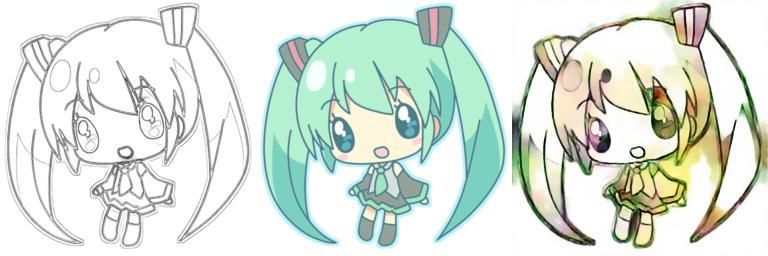
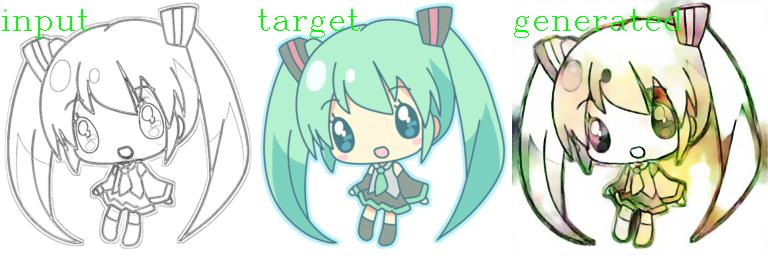
result image

diff --git a/Network.py b/Network.py
@@ -5,6 +5,7 @@ from tqdm import tqdm
 import numpy as np
 import os
 from PIL import Image
+import cv2
 
 class Generator(nn.Module):
     def __init__(self, dim):
@@ -218,7 +219,6 @@ class Model:
         os.makedirs(cfg.test_result_folder, exist_ok=True)
         for images, _ in loader:
             with torch.no_grad():
-                images = images.cuda()
                 if image_roi == 'LEFT':
                     source_images = images[:, :, :, :cfg.input_size]
                     target_images = images[:, :, :, cfg.input_size:]
@@ -229,20 +229,39 @@ class Model:
                     source_images = images
                     target_images = None
 
-                ims = self.G(source_images).to('cpu').detach().numpy().copy()
-                source_images = source_images.to('cpu')
+                generated_images = self.G(source_images.cuda()).to('cpu').detach().numpy().copy()
+                generated_images = (generated_images + 1) * 0.5
+                generated_images = np.transpose(generated_images, (0, 2, 3, 1))
+                generated_images = (generated_images * 255).astype(np.uint8)
+
+                source_images = source_images.numpy()
+                source_images = (source_images + 1) * 0.5
+                source_images = np.transpose(source_images, (0, 2, 3, 1))
+                source_images = (source_images * 255).astype(np.uint8)
+
                 if target_images is not None:
-                    target_images = target_images.to('cpu')
-                    ims = np.concatenate([source_images, target_images, ims], axis=3)
+                    target_images = target_images.numpy()
+                    target_images = (target_images + 1) * 0.5
+                    target_images = np.transpose(target_images, (0, 2, 3, 1))
+                    target_images = (target_images * 255).astype(np.uint8)
                 else:
-                    ims = np.concatenate([source_images, ims], axis=3)
-                ims = (ims + 1) * 0.5
-                ims = np.transpose(ims, (0, 2, 3, 1))
-                ims = (ims * 255).astype(np.uint8)
-                for im in ims:
+                    target_images = [None] * source_images.shape[0]
+
+                for src_img, tar_img, gen_img in zip(source_images, target_images, generated_images):
                     idx += 1
-                    image = Image.fromarray(im)
-                    image.save(os.path.join(cfg.test_result_folder, str(idx) + '.jpg'))
+                    src_img = np.ascontiguousarray(src_img, dtype=np.uint8)
+                    src_img = cv2.putText(src_img, 'input', (0, 30), cv2.FONT_HERSHEY_COMPLEX, 1, (0, 255, 0), 1)
+                    if tar_img is not None:
+                        tar_img = np.ascontiguousarray(tar_img, dtype=np.uint8)
+                        tar_img = cv2.putText(tar_img, 'target', (0, 30), cv2.FONT_HERSHEY_COMPLEX, 1, (0, 255, 0), 1)
+                    gen_img = np.ascontiguousarray(gen_img, dtype=np.uint8)
+                    gen_img = cv2.putText(gen_img, 'generated', (0, 30), cv2.FONT_HERSHEY_COMPLEX, 1, (0, 255, 0), 1)
+                    if tar_img is not None:
+                        result_img = np.concatenate([src_img, tar_img, gen_img], axis=1)
+                    else:
+                        result_img = np.concatenate([src_img, gen_img], axis=1)
+                    result_img = Image.fromarray(result_img)
+                    result_img.save(os.path.join(cfg.test_result_folder, str(idx) + '.jpg'))
 
     def save(self, current_epoch, ckpt_path = None):
         state = {'G': self.G.state_dict(),
